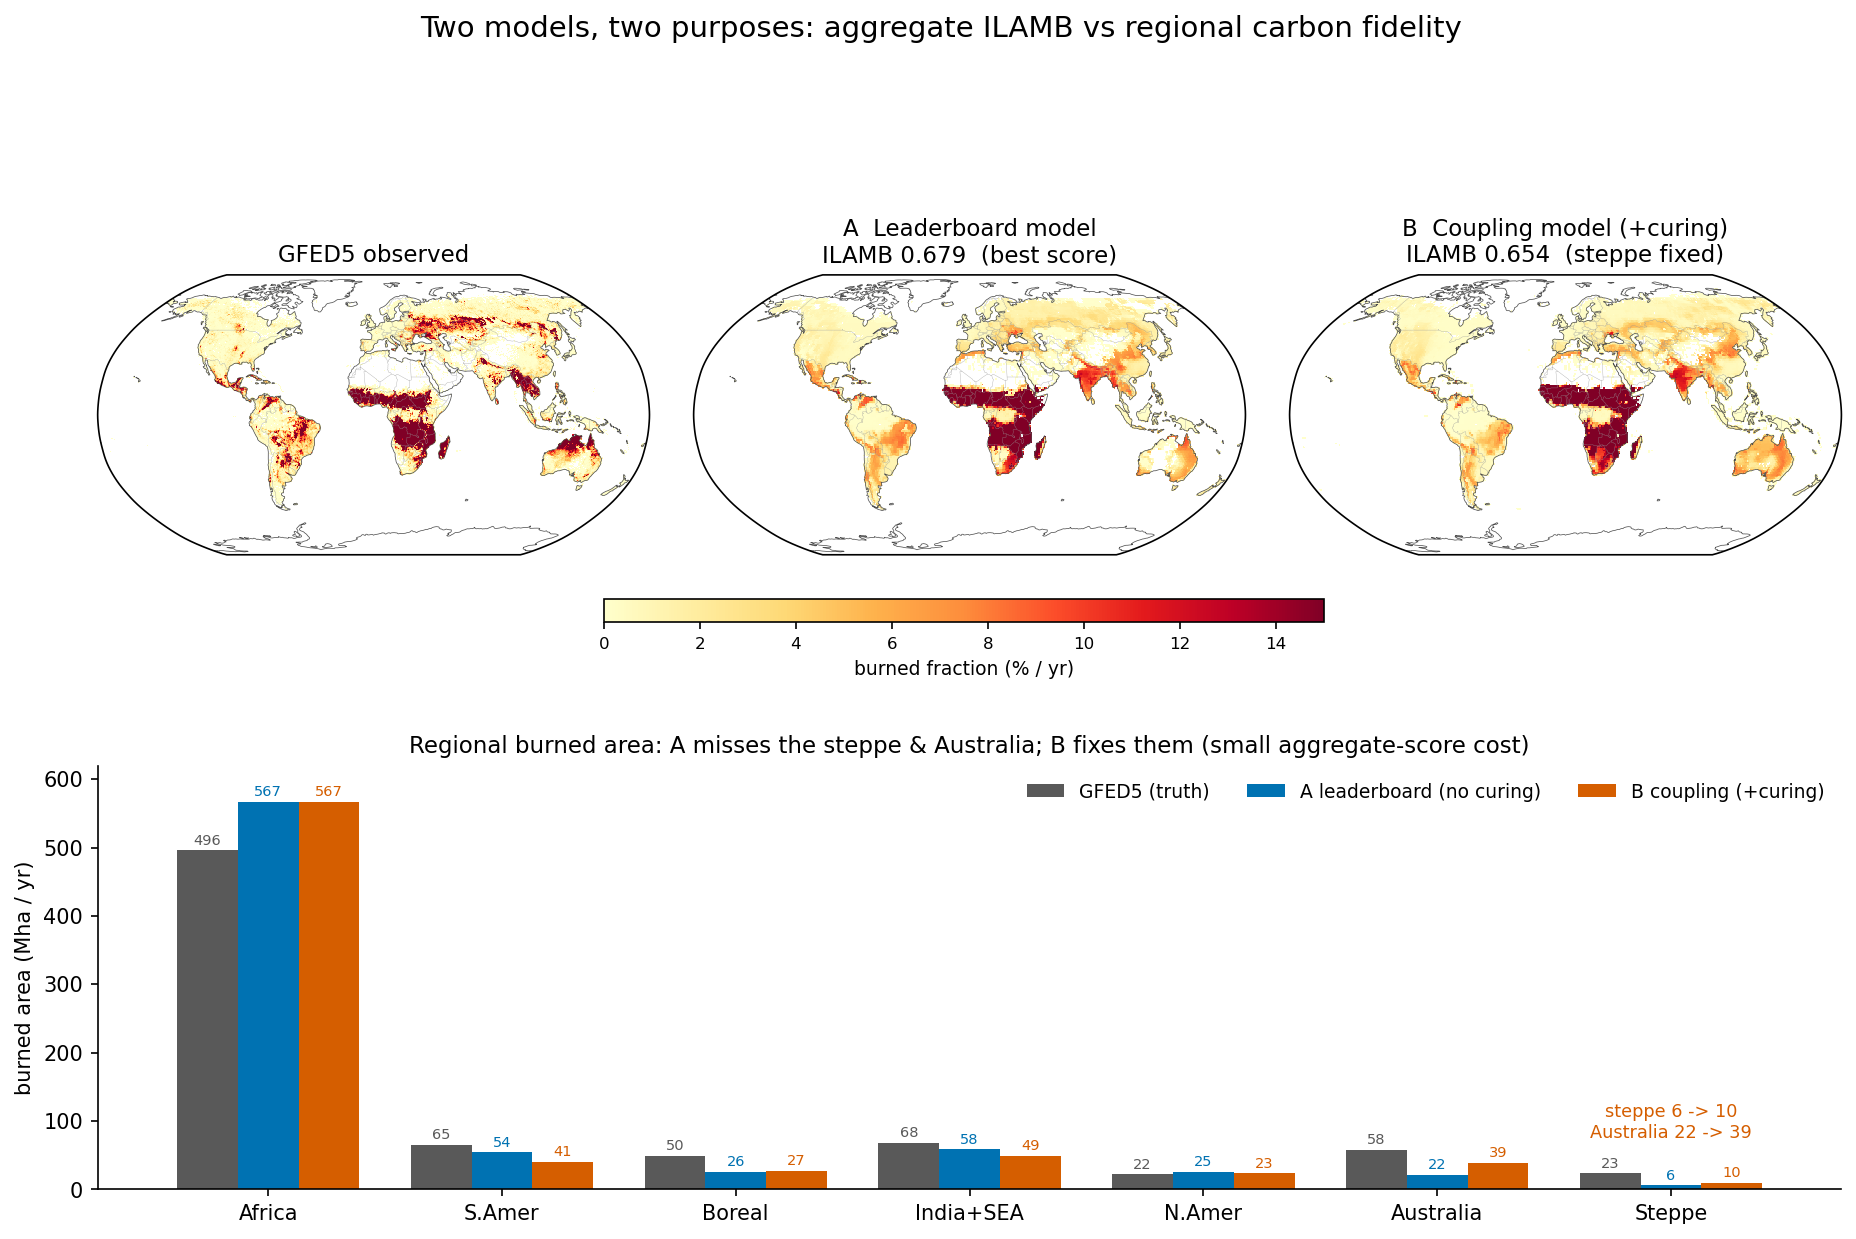
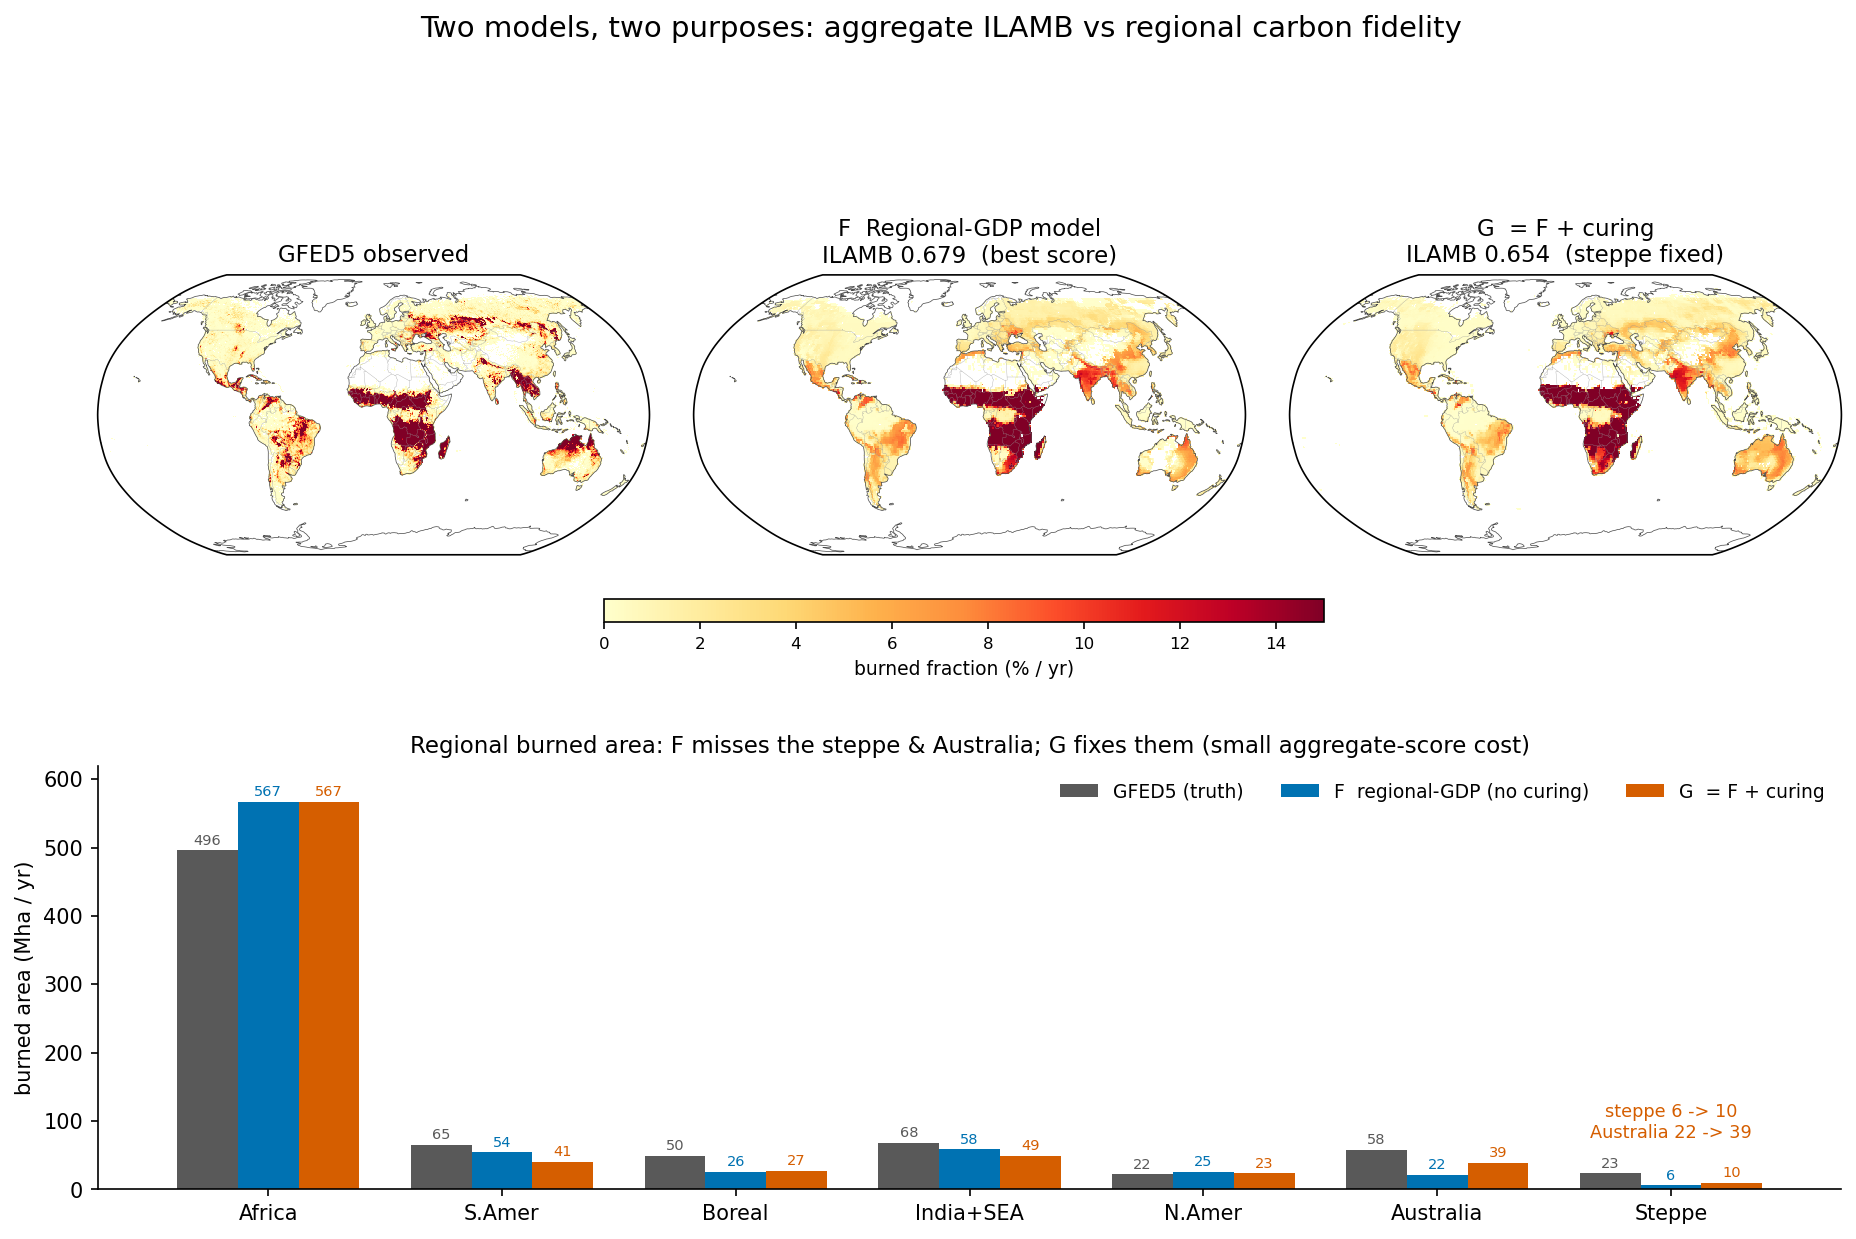
relabel the two candidate models F and G (follow C-D-E), for the Lei email
F = regional-GDP (recommended, BA 0.679 / fFire 0.667); G = F + curing (regional
fidelity, lower aggregate). Updated both comparison figures and the Lei draft to F/G.

Changed region(s): [[0.2188, 0.5827, 0.9688, 0.6441], [0.4688, 0.1533, 0.5938, 0.2147], [0.7812, 0.1533, 0.9062, 0.2147]]

diff --git a/scripts/make_george_figure.py b/scripts/make_george_figure.py
@@ -30,8 +30,8 @@ def mapax(i,data,title):
     im=ax.pcolormesh(lon,lat,np.where(np.nan_to_num(data)>0,data,np.nan),transform=ccrs.PlateCarree(),cmap="YlOrRd",vmin=0,vmax=15,shading="auto")
     ax.set_title(title,fontsize=11); return im
 mapax(0,gf,"GFED5 observed")
-mapax(1,A,"A  Leaderboard model\nILAMB 0.679  (best score)")
-im=mapax(2,B,"B  Coupling model (+curing)\nILAMB 0.654  (steppe fixed)")
+mapax(1,A,"F  Regional-GDP model\nILAMB 0.679  (best score)")
+im=mapax(2,B,"G  = F + curing\nILAMB 0.654  (steppe fixed)")
 cax=fig.add_axes([0.35,0.53,0.32,0.017]); cb=fig.colorbar(im,cax=cax,orientation="horizontal")
 cb.set_label("burned fraction (% / yr)",fontsize=9); cb.ax.tick_params(labelsize=8)
 
@@ -40,14 +40,14 @@ axb=fig.add_subplot(gs[1,:])
 regs=list(RB); x=np.arange(len(regs)); wbar=0.26
 gv=[mha(gf,RB[r]) for r in regs]; av=[mha(A,RB[r]) for r in regs]; bv=[mha(B,RB[r]) for r in regs]
 axb.bar(x-wbar,gv,wbar,label="GFED5 (truth)",color="0.35")
-axb.bar(x,av,wbar,label="A leaderboard (no curing)",color="#0072B2")
-axb.bar(x+wbar,bv,wbar,label="B coupling (+curing)",color="#D55E00")
+axb.bar(x,av,wbar,label="F  regional-GDP (no curing)",color="#0072B2")
+axb.bar(x+wbar,bv,wbar,label="G  = F + curing",color="#D55E00")
 for xi,(g0,a0,b0) in enumerate(zip(gv,av,bv)):
     for dx,val,c in [(-wbar,g0,"0.35"),(0,a0,"#0072B2"),(wbar,b0,"#D55E00")]:
         axb.text(xi+dx,val+4,f"{val:.0f}",ha="center",va="bottom",fontsize=7,color=c)
 axb.set_xticks(x); axb.set_xticklabels(regs,fontsize=10)
 axb.set_ylabel("burned area (Mha / yr)"); axb.set_ylim(0,620)
-axb.set_title("Regional burned area: A misses the steppe & Australia; B fixes them (small aggregate-score cost)",fontsize=11)
+axb.set_title("Regional burned area: F misses the steppe & Australia; G fixes them (small aggregate-score cost)",fontsize=11)
 axb.legend(fontsize=9,frameon=False,ncol=3,loc="upper right")
 for sp in ("top","right"): axb.spines[sp].set_visible(False)
 _st=(mha(A,RB["Steppe"]),mha(B,RB["Steppe"])); _au=(mha(A,RB["Australia"]),mha(B,RB["Australia"]))

diff --git a/scripts/make_george_ffire_figure.py b/scripts/make_george_ffire_figure.py
@@ -32,13 +32,13 @@ def mapax(i,m,lat,lon,title):
     d=gC(m); im=ax.pcolormesh(lon,lat,np.where(d>0.1,d,np.nan),transform=ccrs.PlateCarree(),cmap="OrRd",vmin=0,vmax=200,shading="auto")
     ax.set_title(title,fontsize=11); return im
 mapax(0,gf,latg,long,"GFED5 emissions")
-mapax(1,A,latA,lonA,"A  Leaderboard\nfFire ILAMB 0.667  (3.4 PgC/yr)")
-im=mapax(2,B,latB,lonB,"B  Coupling (+curing)\nfFire ILAMB 0.656  (3.4 PgC/yr)")
+mapax(1,A,latA,lonA,"F  Regional-GDP\nfFire ILAMB 0.667  (3.4 PgC/yr)")
+im=mapax(2,B,latB,lonB,"G  = F + curing\nfFire ILAMB 0.656  (3.4 PgC/yr)")
 cax=fig.add_axes([0.35,0.53,0.32,0.017]); cb=fig.colorbar(im,cax=cax,orientation="horizontal"); cb.set_label("fire emissions (g C / m2 / yr)",fontsize=9); cb.ax.tick_params(labelsize=8)
 
 axb=fig.add_subplot(gs[1,:]); regs=list(RB); x=np.arange(len(regs)); wb=0.26
 gv=[emis(gf,latg,long,RB[r]) for r in regs]; av=[emis(A,latA,lonA,RB[r]) for r in regs]; bv=[emis(B,latB,lonB,RB[r]) for r in regs]
-axb.bar(x-wb,gv,wb,label="GFED5 (truth)",color="0.35"); axb.bar(x,av,wb,label="A leaderboard",color="#0072B2"); axb.bar(x+wb,bv,wb,label="B coupling (+curing)",color="#D55E00")
+axb.bar(x-wb,gv,wb,label="GFED5 (truth)",color="0.35"); axb.bar(x,av,wb,label="F  regional-GDP",color="#0072B2"); axb.bar(x+wb,bv,wb,label="G  = F + curing",color="#D55E00")
 for xi,(g0,a0,b0) in enumerate(zip(gv,av,bv)):
     for dx,val,c in [(-wb,g0,"0.35"),(0,a0,"#0072B2"),(wb,b0,"#D55E00")]:
         axb.text(xi+dx,val+8,f"{val:.0f}",ha="center",va="bottom",fontsize=7,color=c)
